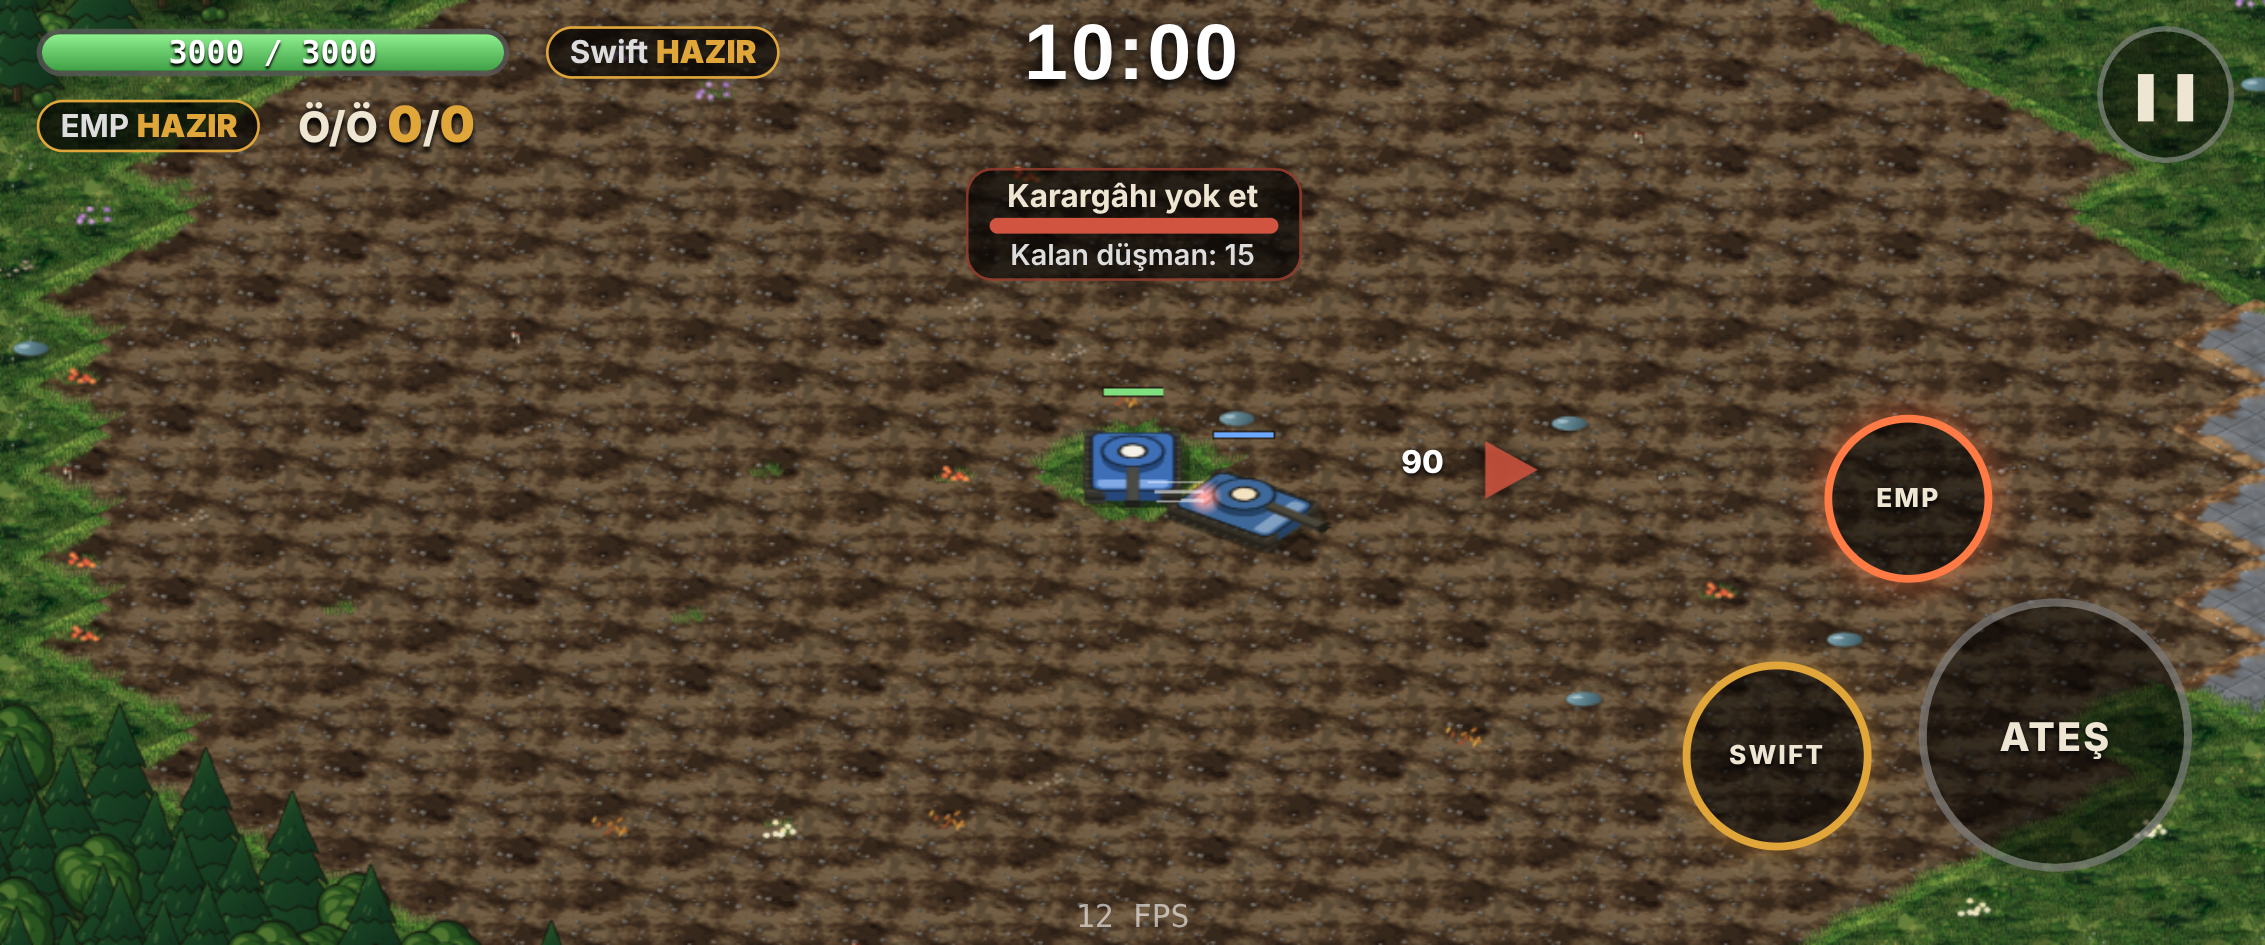
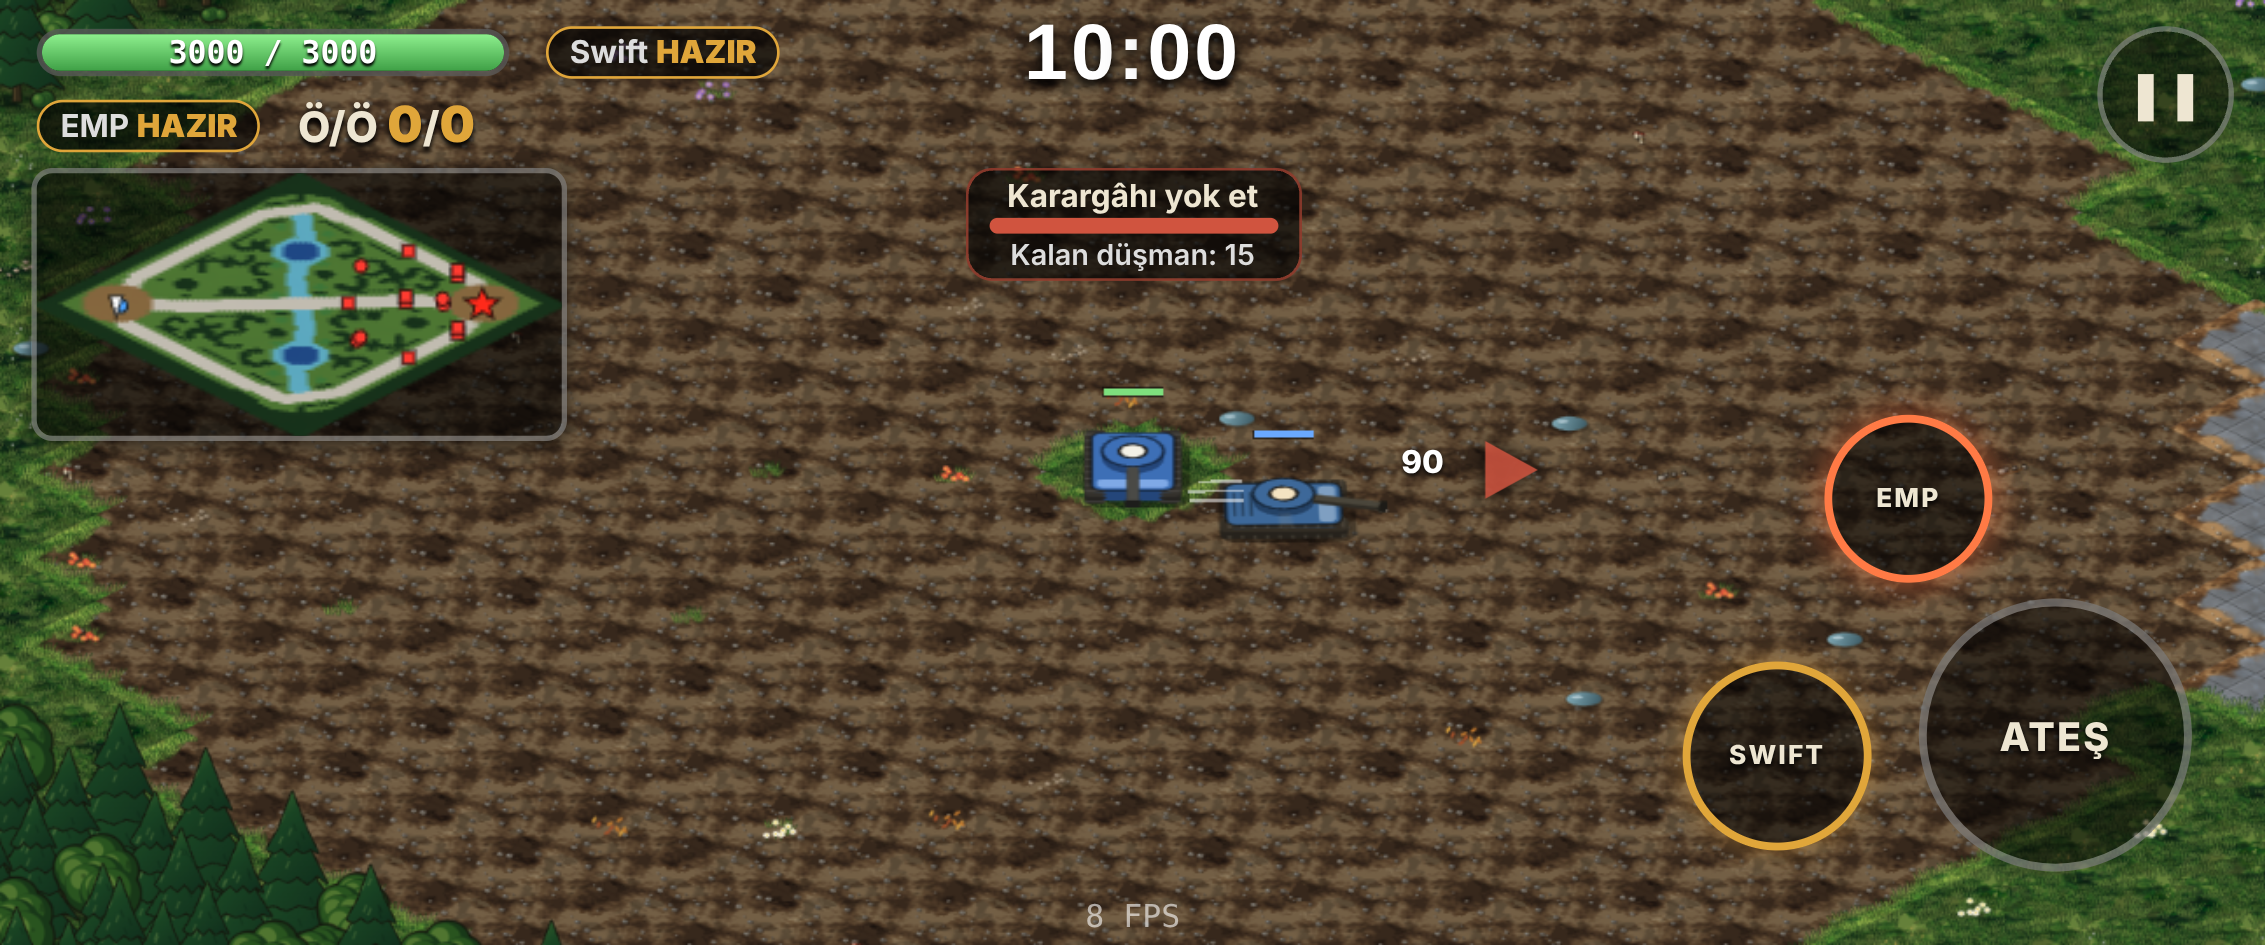
feat(ui): minimap for every tank (top-left, tap for the big map)
Claude-Session: https://claude.ai/code/session_01FtJrZaY3YLMWdj2f7VKYHZ

diff --git a/src/ui/minimap.ts b/src/ui/minimap.ts
@@ -1,30 +1,52 @@
 /**
- * Trapper minimap (brief §5, top-left). The Trapper sees the WHOLE map here: enemies are red dots
- * with a heading notch, invisible (Hide) enemies a faint flickering red dot, allies blue, own
- * mines orange. Plain 2D canvas, redrawn at ~10 Hz. Shown only when the local tank is a Trapper.
+ * Minimap (top-left, round 08; first written for the Trapper in round 01). Shows the WHOLE map in the same
+ * isometric projection as the game view, so "up-right on the minimap" is "up-right on screen". Terrain is baked
+ * once; markers are redrawn at ~10 Hz: you = white arrow, allies blue, enemy tanks red, towers red squares,
+ * the enemy headquarters a big red star. Hiding (Hide) enemies are not drawn. Tap = big full map, tap again = close.
+ * Plain 2D canvas, no per-frame allocation.
  */
 import type { SimState } from '../sim/state';
 import { isInvisible } from '../sim/visibility';
 import { Ground, Feature } from '../world/terrain';
 
+/** Colours per Ground id (grass, dirt, sand, mud, shallow, deep, asphalt, pavement). */
+const GROUND_COL = ['#4f7a34', '#8a6a40', '#c2ae74', '#5a4a30', '#5fb0c8', '#1f4a8a', '#5a5d62', '#c9c4b8'];
+const SMALL = 200;
+const BIG = 440;
+
 export class Minimap {
   readonly canvas = document.createElement('canvas');
   private readonly g: CanvasRenderingContext2D;
   private base: HTMLCanvasElement | null = null;
+  private acc = 1;
+  private size = SMALL;
   private t = 0;
+  expanded = false;
 
-  constructor(private readonly size = 168) {
-    this.canvas.width = size;
-    this.canvas.height = size / 2;
+  constructor() {
     this.canvas.className = 'minimap';
     this.canvas.dataset.testid = 'minimap';
     this.g = this.canvas.getContext('2d')!;
+    this.resize(SMALL);
+  }
+
+  private resize(size: number): void {
+    this.size = size;
+    this.canvas.width = size;
+    this.canvas.height = size / 2;
+    this.base = null;
+    this.acc = 1; // redraw at once
+  }
+
+  toggle(): void {
+    this.expanded = !this.expanded;
+    this.canvas.classList.toggle('big', this.expanded);
+    this.resize(this.expanded ? BIG : SMALL);
   }
 
   /** Iso-diamond projection of world (x, y) into the minimap. */
   private p(s: SimState, x: number, y: number): [number, number] {
-    const W = s.map.width;
-    const k = this.size / (2 * W);
+    const k = this.size / (2 * s.map.width);
     return [this.size / 2 + (x - y) * k, ((x + y) * k) / 2];
   }
 
@@ -34,32 +56,53 @@ export class Minimap {
     c.height = this.size / 2;
     const g = c.getContext('2d')!;
     const m = s.map;
+    const k = this.size / (2 * m.width);
     for (let y = 0; y < m.height; y++)
       for (let x = 0; x < m.width; x++) {
         const i = y * m.width + x;
         const gr = m.ground[i];
         const f = m.feature[i];
-        let col = ['#4f7a34', '#7a5e3a', '#b8a06a', '#5a4a30', '#3f8fa8', '#1f4a8a', '#3c3e42', '#a8a49c'][gr];
-        if (f === Feature.Forest) col = '#2f5a2a';
-        if (f === Feature.Rock || f === Feature.Wall || f === Feature.Gate) col = '#77736c';
-        if (gr !== Ground.Deep && m.elev[i] > 0) col = m.elev[i] > 1 ? '#8aa86a' : '#6a9050';
+        let col = GROUND_COL[gr] ?? '#4f7a34';
+        if (f === Feature.Forest) col = '#3f7a3a';
+        else if (f === Feature.Thicket) col = '#16331a';
+        else if (f === Feature.Rock || f === Feature.Wall || f === Feature.Gate || f === Feature.Building || f === Feature.Adobe) col = '#77736c';
+        else if (f === Feature.Bridge) col = '#8a6a40';
+        else if (gr !== Ground.Deep && m.elev[i] > 0) col = m.elev[i] > 1 ? '#8aa86a' : '#6a9050';
         const [px, py] = this.p(s, x + 0.5, y + 0.5);
         g.fillStyle = col;
-        const k = this.size / (2 * m.width);
         g.fillRect(px - k, py - k * 0.5, k * 2 + 0.6, k + 0.6);
       }
     this.base = c;
   }
 
+  private star(x: number, y: number, r: number): void {
+    const g = this.g;
+    g.beginPath();
+    for (let k = 0; k < 10; k++) {
+      const a = (Math.PI / 5) * k - Math.PI / 2;
+      const rr = k % 2 ? r * 0.45 : r;
+      g.lineTo(x + Math.cos(a) * rr, y + Math.sin(a) * rr * 0.9);
+    }
+    g.closePath();
+    g.fill();
+    g.stroke();
+  }
+
   draw(s: SimState, me: number, dt: number): void {
     this.t += dt;
+    this.acc += dt;
+    if (this.acc < 0.1) return; // ~10 Hz is plenty for a map
+    this.acc = 0;
     if (!this.base) this.drawBase(s);
     const g = this.g;
     g.clearRect(0, 0, this.size, this.size / 2);
-    g.globalAlpha = 0.92;
+    g.globalAlpha = 0.95;
     g.drawImage(this.base!, 0, 0);
     g.globalAlpha = 1;
     const myTeam = s.tanks[me].team;
+    const u = this.expanded ? 1.7 : 1;
+    g.lineWidth = 1;
+    g.strokeStyle = '#000000aa';
     for (const mn of s.mines) {
       if (mn.team !== myTeam) continue;
       const [x, y] = this.p(s, mn.x, mn.y);
@@ -67,27 +110,40 @@ export class Minimap {
       g.fillRect(x - 2, y - 2, 4, 4);
     }
     for (const t of s.tanks) {
-      if (!t.alive) continue;
-      const [x, y] = this.p(s, t.x, t.y);
+      if (!t.alive || t.id === me) continue;
       const enemy = t.team !== myTeam;
-      let alpha = 1;
-      if (enemy && isInvisible(t)) alpha = 0.25 + 0.2 * Math.sin(this.t * 13 + t.id); // faint, flickering
-      g.globalAlpha = alpha;
-      g.fillStyle = enemy ? '#ff3b30' : t.id === me ? '#ffffff' : '#4aa3ff';
+      if (enemy && isInvisible(t)) continue; // Hide stays hidden
+      const [x, y] = this.p(s, t.x, t.y);
+      g.fillStyle = enemy ? '#ff3b30' : '#4aa3ff';
+      if (t.cls === 'hq') {
+        g.fillStyle = '#ff2a1a';
+        this.star(x, y, 7 * u);
+      } else if (t.cls === 'tower') {
+        g.fillRect(x - 2.4 * u, y - 2.4 * u, 4.8 * u, 4.8 * u);
+        g.strokeRect(x - 2.4 * u, y - 2.4 * u, 4.8 * u, 4.8 * u);
+      } else {
+        g.beginPath();
+        g.arc(x, y, 2.6 * u, 0, Math.PI * 2);
+        g.fill();
+        g.stroke();
+      }
+    }
+    // the local tank: white arrow along its hull heading (iso-projected)
+    const mt = s.tanks[me];
+    if (mt.alive) {
+      const [x, y] = this.p(s, mt.x, mt.y);
+      const hx = Math.cos(mt.hull) - Math.sin(mt.hull);
+      const hy = (Math.cos(mt.hull) + Math.sin(mt.hull)) * 0.5;
+      const a = Math.atan2(hy, hx);
+      const r = 5 * u;
+      g.fillStyle = '#ffffff';
       g.beginPath();
-      g.arc(x, y, t.id === me ? 3.6 : 3, 0, Math.PI * 2);
+      g.moveTo(x + Math.cos(a) * r, y + Math.sin(a) * r);
+      g.lineTo(x + Math.cos(a + 2.5) * r * 0.8, y + Math.sin(a + 2.5) * r * 0.8);
+      g.lineTo(x + Math.cos(a - 2.5) * r * 0.8, y + Math.sin(a - 2.5) * r * 0.8);
+      g.closePath();
       g.fill();
-      // heading notch
-      const hx = Math.cos(t.hull) - Math.sin(t.hull);
-      const hy = (Math.cos(t.hull) + Math.sin(t.hull)) * 0.5;
-      const m = Math.hypot(hx, hy) || 1;
-      g.strokeStyle = g.fillStyle;
-      g.lineWidth = 1.5;
-      g.beginPath();
-      g.moveTo(x, y);
-      g.lineTo(x + (hx / m) * 6, y + (hy / m) * 6);
       g.stroke();
-      g.globalAlpha = 1;
     }
   }
 }

diff --git a/e2e/round08.spec.ts b/e2e/round08.spec.ts
@@ -74,3 +74,31 @@ test('03 upgrades apply in missions only; Quick Match tanks are equal', async ({
   const quick = await page.evaluate(() => (window as unknown as W).__tanky.scene.state.tanks[0].boost.hp);
   expect(quick).toBe(1);
 });
+
+test('04 minimap: whole map top-left, tap = big map', async ({ page }) => {
+  await startMission(page, '', 'standard');
+  const map = page.locator('canvas.minimap');
+  await expect(map).toBeVisible();
+  const small = await map.boundingBox();
+  expect(small!.x).toBeLessThan(40);
+  expect(small!.y).toBeLessThan(120);
+  await page.waitForTimeout(600);
+  await shot(page, '04-minimap');
+  await page.getByTestId('minimap-host').tap();
+  await page.waitForTimeout(600);
+  const big = await map.boundingBox();
+  expect(big!.width).toBeGreaterThan(small!.width * 1.8);
+  await shot(page, '05-minimap-big');
+  await page.getByTestId('minimap-host').tap();
+  await page.waitForTimeout(400);
+  expect((await map.boundingBox())!.width).toBeLessThan(big!.width * 0.7);
+  // Quick Match shows it too
+  await page.goto('/?silent');
+  await page.getByTestId('solo').click();
+  await page.getByTestId('play').click();
+  await page.getByTestId('class-heavy').click();
+  await page.getByTestId('start').click();
+  await playing(page);
+  await expect(page.locator('canvas.minimap')).toBeVisible();
+  await shot(page, '06-minimap-quick-match');
+});

diff --git a/src/ui/styles.css b/src/ui/styles.css
@@ -135,8 +135,9 @@ input[type='range'] { width: 200px; accent-color: var(--accent); }
 @keyframes pop { from { transform: translate(-50%, -50%) scale(1.8); opacity: 0; } 30% { opacity: 1; } to { transform: translate(-50%, -50%) scale(1); } }
 .kd { font-weight: 800; font-size: 16px; text-shadow: 0 2px 2px #000; }
 .kd b { color: var(--accent); font-size: 19px; }
-.minimap-host { position: absolute; top: calc(38px + var(--safe-t)); left: calc(12px + var(--safe-l)); pointer-events: none; }
+.minimap-host { position: absolute; top: calc(64px + var(--safe-t)); left: calc(12px + var(--safe-l)); pointer-events: auto; touch-action: none; z-index: 3; }
 .minimap-host.right { left: auto; right: calc(80px + var(--safe-r)); }
+.minimap.big { box-shadow: 0 4px 24px #000c; border-color: #ffffffaa; }
 .minimap { display: block; border: 2px solid #ffffff55; border-radius: 8px; background: #0009; box-shadow: 0 2px 8px #000a; }
 .ability-btn.active { border-color: #7fe0ff; box-shadow: 0 0 18px 4px #7fe0ff88; }
 .ability-btn.ready { border-color: var(--accent); box-shadow: 0 0 10px 1px #ffb34755; }

diff --git a/src/ui/GameView.tsx b/src/ui/GameView.tsx
@@ -250,7 +250,7 @@ export function GameView({ settings, playerClass, seed, record, onQuit, onAgain,
             <span style={{ transform: `rotate(${-hud.hqAngle}rad)` }}>{hud.hqDist}</span>
           </div>
         )}
-        <div ref={minimapHost} className={'minimap-host' + (settings.leftHanded ? ' right' : '')} />
+        <div ref={minimapHost} className={'minimap-host' + (settings.leftHanded ? ' right' : '')} data-testid="minimap-host" onPointerDown={(e) => { e.stopPropagation(); sceneRef.current?.minimap?.toggle(); }} />
         {hud && hud.phase !== 'ended' && !hud.endless && (
           <div className={'match-timer' + (finalWarn ? ' warn' : '')} data-testid="timer">
             {mm}:{ss}

diff --git a/src/scenes/GameScene.ts b/src/scenes/GameScene.ts
@@ -260,7 +260,7 @@ export class GameScene {
       this.wreckSmoke.push(0);
       this.engines.push(this.audio.createEngine(isPve(t.cls) ? 'heavy' : (t.cls as CombatClassId))); // structures never move → silent
     }
-    if (this.state.tanks[this.localId].cls === 'trapper') this.minimap = new Minimap();
+    this.minimap = new Minimap(); // every tank sees the whole map (round 08)
     const p = this.state.tanks[this.localId];
     this.camera.snap(this.sx(p.x, p.y), this.sy(p.x, p.y));
     this.updateBaseZoom();

diff --git a/docs/DECISIONS.md b/docs/DECISIONS.md
@@ -60,3 +60,4 @@ Small, reversible decisions taken autonomously (brief §0). Newest at the bottom
 | D-054 | 2026-10-11 | **Missions = one hand-made maze level ("Labirent", maps/maze_1.json, 64×64)**; the 3 generated levels were removed. Walls are solid rock (block movement and shots) so the way to the HQ is ~3× the straight line; enemy outposts sit at fixed maze cells. More levels will copy this pattern. | Owner: "tank istediği her yere gidebiliyor, bu olmayacak… LoL/Warcraft gibi labirent… önce tek bölümü netleştirelim"; details left to Claude. |
 | D-055 | 2026-10-11 | **Garage upgrades and perks apply in missions only**; Quick Match (and later multiplayer) tanks are equal. Quick Match still pays credits to spend in the garage. Credits and upgrade parts stay two currencies (merging them would change the economy = balance numbers); campaign HUD arrow now points along the route, not the straight line. | Owner: "güçlendirilmiş tank sadece ilerlemeli bölümde… multiplayer'da bütün tanklar eşit". |
 | D-056 | 2026-10-11 | **Mission map = lane map after the owner's reference picture (LoL map for Warcraft 3)**, replaces the maze of D-054: 96×96, bases in the bottom-left/top-right corners, 3 stone lanes (top, diagonal mid, bottom), diagonal river (shallow) with 2 deep lakes, jungle of C-shaped dense-wood clumps (new impassable `thicket` terrain, blocks shots), wood walls beside the lanes with openings; point-symmetric for multiplayer later. Enemy: 9 towers on the 3 lanes (outer + inner) + base guard + 2 jungle camps + HQ. Generated once by `tools/make-moba-map.py` → `maps/moba_1.json`. | Owner: "Bu tarz bir harita istiyorum… labirent haritayı kaldır ve görseldeki haritayı uygula" (screenshot of the LoL WC3 map). |
+| D-057 | 2026-10-11 | **Minimap for every tank, top-left** (Quick Match and missions): whole map in the game's own isometric projection (so directions match the screen), terrain baked once, markers at 10 Hz — you = white arrow, allies blue, enemy tanks red dots, towers red squares, HQ red star, Hide enemies not drawn. Tap = big map, tap again = close. Replaces the Trapper-only minimap (K3 partly answered). | Owner: "Orijinal oyunda solda üstte tam harita gözüktüğü gibi bu oyunda da… tam harita gözüksün"; details approved with "Uygula". |

diff --git a/docs/PROGRESS.md b/docs/PROGRESS.md
@@ -201,6 +201,8 @@ Dengeli charged shot through two tanks; Topçu charged shot → dark burning pat
 
 ## Round 08 (2026-10-11) — maze mission, upgrades only in missions
 
+**Update 2 (D-057):** minimap for all tanks, top-left under the HP bar (`src/ui/minimap.ts`, no longer Trapper-only). Evidence: lint/typecheck/177 unit pass; e2e round08 test 04 (visible top-left, tap enlarges 440 px, tap closes, also shown in Quick Match); screenshots `04-minimap`, `05-minimap-big`, `06-minimap-quick-match` inspected. Deviation from the plan: shown as the game's 2:1 iso diamond, not a square, so up-right on the map = up-right on screen; the camera-view frame was left out. Forest-hidden far enemies are still drawn (only Hide is hidden). Not verified: phone feel / FPS.
+
 **Update (same day, D-056):** the maze was replaced by a lane map after the owner's reference picture (LoL map for WC3): `maps/moba_1.json` (96×96, built by `tools/make-moba-map.py`, preview `docs/screens/round-08/00-map-plan.png`), new impassable `thicket` terrain (darker forest art), level "Üç Yol" with 9 lane towers, base guard, 2 jungle camps. Evidence: unit tests (point symmetry, no sealed pockets, 40–85 % open), campaign sim: bot Standard/normal won in 321 s (8 deaths), bot Heavy/easy won in 415 s; e2e round05/06/08 pass, screenshots 01–03 inspected. Not verified: phone feel and FPS with the many tree sprites (CI perf gate covers Quick Match only). Text below describes the first (maze) version.
 
 - **Done:** 3 generated levels removed; one hand-made maze level "Labirent" (`maps/maze_1.json`, 21×21 characters × 3 tiles = 64×64, seeded recursive-backtracker layout with 4 loops, authored once and stored). Loader `src/world/mazeMap.ts`; levels use `outposts[].cell`. 5 enemy outposts (6 towers + 5 tanks) + HQ. Route arrow follows the walking distance field (`descend`). `playerBoost` only in missions (`App.tsx`). Old save data stays valid (stars of removed ids are ignored).

diff --git a/CLAUDE.md b/CLAUDE.md
@@ -89,6 +89,7 @@ design is gone with the Trapper, see D-036/D-037 and open decision K3.)
 | Bots | FSM AI (patrol/suspicion/chase/attack/retreat); Kolay/Normal/Zor/Ekstrem (first shot 5/3/1/0 s after an enemy is in range), allies use the same level | `src/data/ai.json`, `src/systems/ai/bot.ts` |
 | Auto-aim | nearest visible enemy **inside the camera view** (D-045), 10 % hysteresis; touch manual aim needs a 60 px drag | `targeting.ts`, `touchControls.ts` |
 | Heights | cliffs/ramps from one `isPassable` rule, bump flash + haptic, "Engel vurgusu" setting | `passability.ts`, D-020/021 |
+| Minimap (round 08) | every tank: top-left iso diamond of the whole map, tap = big (`src/ui/minimap.ts`, D-057) |
 | UI | main menu Tek Oyunculu (Hızlı Maç, Görevler [= campaign], Garaj) / Çok Oyunculu ("Yakında") / Ayarlar, swipeable tank cards (skill + ult), map + difficulty selectors, two ability buttons with countdown rings, upgrade chip | `src/ui/` |
 | Campaign (round 08) | ONE lane map "Üç Yol" (`maps/moba_1.json` from `tools/make-moba-map.py`, loaded by `src/world/mazeMap.ts`, 96×96, 3 lanes + river + jungle of impassable `thicket`, point-symmetric; `levels.json` outposts by `cell`); route arrow follows the walking path; earlier: 96×96 themed maps; towers + HQ = `pve` classes in `tanks.json`; outpost solver + guard mode (`enemies.json`); win = HQ destroyed, time out = loss; player respawns at own base; stars/credits | `src/game/campaign.ts`, `src/systems/ai/tower.ts`, `tools/campaign-sim.ts` |
 | Progression (round 05) | credits (campaign rewards, Quick Match 5/kill + 25/win), unlock chain, garage armor/engine/gun × 3 → `Tank.boost` for the player only, **missions only** (D-055) | `src/game/progression.ts`, `src/data/progression.json` |

diff --git a/README.md b/README.md
@@ -14,7 +14,7 @@ basılı tutarak güçlenen atışlar, her tanka özel yetenekler ve kutulardan 
 - **Basılı tutma:** atış şarj oldukça hasarı artar (×3'e kadar); tam dolunca bırakırsan ekstra bonus alırsın.
 - **Kutulardan yükseltme:** her biri +%5 can ve hasar verir, en fazla +%60; ölünce sıfırlanır.
 - **Can yenilenmesi:** çatışmadan 5 sn uzak kalınca her 5 sn'de +%5 can.
-- **Görevler (Üç Yol):** LoL/Warcraft tarzı haritada (köşelerde üsler, üç koridor, çapraz nehir, sık ormanlı orman bölgesi) koridorlardaki kuleleri geç, karakolları (kuleler + düşman tankları) geç, düşman karargâhını yık; yıldız, kredi ve güçlendirme parçası kazan. Güçlendirmeler sadece görevlerde geçerli; Hızlı Maç'ta tüm tanklar eşit.
+- **Görevler (Üç Yol):** LoL/Warcraft tarzı haritada (köşelerde üsler, üç koridor, çapraz nehir, sık ormanlı orman bölgesi) koridorlardaki kuleleri geç, karakolları (kuleler + düşman tankları) geç, düşman karargâhını yık; yıldız, kredi ve güçlendirme parçası kazan. Sol üstte tüm haritayı gösteren mini harita (dokununca büyür). Güçlendirmeler sadece görevlerde geçerli; Hızlı Maç'ta tüm tanklar eşit.
 - **Basılı tutma özellikleri:** Ağır lazer hızında mermi + şok dalgası, Dengeli delici atış, Topçu ateş alanı bırakır.
 - **Güçlendirme parçaları:** her parça seçtiğin tanka özel güçlendirme verir (Ağır can, Çevik atış hızı, Dengeli şarj hızı, Topçu patlama alanı).
 - **Garaj:** kredilerle her tank için Zırh, Motor ve Top yükseltmesi (3'er seviye).

diff --git a/docs/CHANGELOG.md b/docs/CHANGELOG.md
@@ -57,6 +57,10 @@ Tam liste ve öneriler: `CLAUDE.md` §1 "Pending owner decisions" (B1, B2, A, K1
 ## 4. Günlük (en yeni en üstte)
 
 <!-- LOG:START -->
+### 2026-10-11 — [konusma] Mini harita isteği
+Sahibi: 'Orijinal oyunda solda üstte tam harita gözüktüğü gibi bu oyunda da gözüksün'; plan sonrası 'Uygula bakalım sonuca göre güncellenir'.
+### 2026-10-11 — [yenilik] Mini harita herkes için
+Sol üstte tüm haritayı gösteren mini harita (Hızlı Maç + Görevler): sen beyaz ok, dost mavi, düşman kırmızı, kule kare, karargâh yıldız; Saklan'daki düşman görünmez. Dokununca büyük harita. Oyunun izometrik yönüyle aynı (elmas). Telefonda doğrulanmadı.
 ### 2026-10-11 — [konusma] Görsel harita isteği
 Sahibi bir LoL (Warcraft 3) harita görseli gönderdi: 'Bu tarz bir harita istiyorum, labirent haritayı kaldır ve görseldeki haritayı uygula.'
 ### 2026-10-11 — [degisiklik] Görev haritası: labirent yerine Üç Yol (LoL/WC3 tarzı)

diff --git a/docs/PLAYTEST_CHECKLIST.md b/docs/PLAYTEST_CHECKLIST.md
@@ -78,6 +78,7 @@ Measurable items (frame time, input latency proxies, APK size) are automated —
 - [ ] Garaj: "Güçlendirme" satırı, parça varsa "1 parça" butonu çalışıyor.
 
 ## Round 08 (telefonda dene)
+- [ ] Sol üstte mini harita: tüm harita, sen beyaz ok, dost mavi, düşman kırmızı, kule kare, karargâh yıldız; dokununca büyüyor, tekrar dokununca kapanıyor (joystick'i tetiklememeli)
 - [ ] Görevler → Üç Yol: üst / orta / alt koridor ve nehir görseldeki haritaya benziyor mu? Sık orman (koyu ağaçlar) geçilmiyor, çalılar (açık yeşil) geçiliyor — ayırt edilebiliyor mu?
 - [ ] Ok yönü duvarı değil gidilecek yolu gösteriyor mu?
 - [ ] Koridorlardaki kuleler/karakollar, orman siperi, köprü: zorluk ve his
